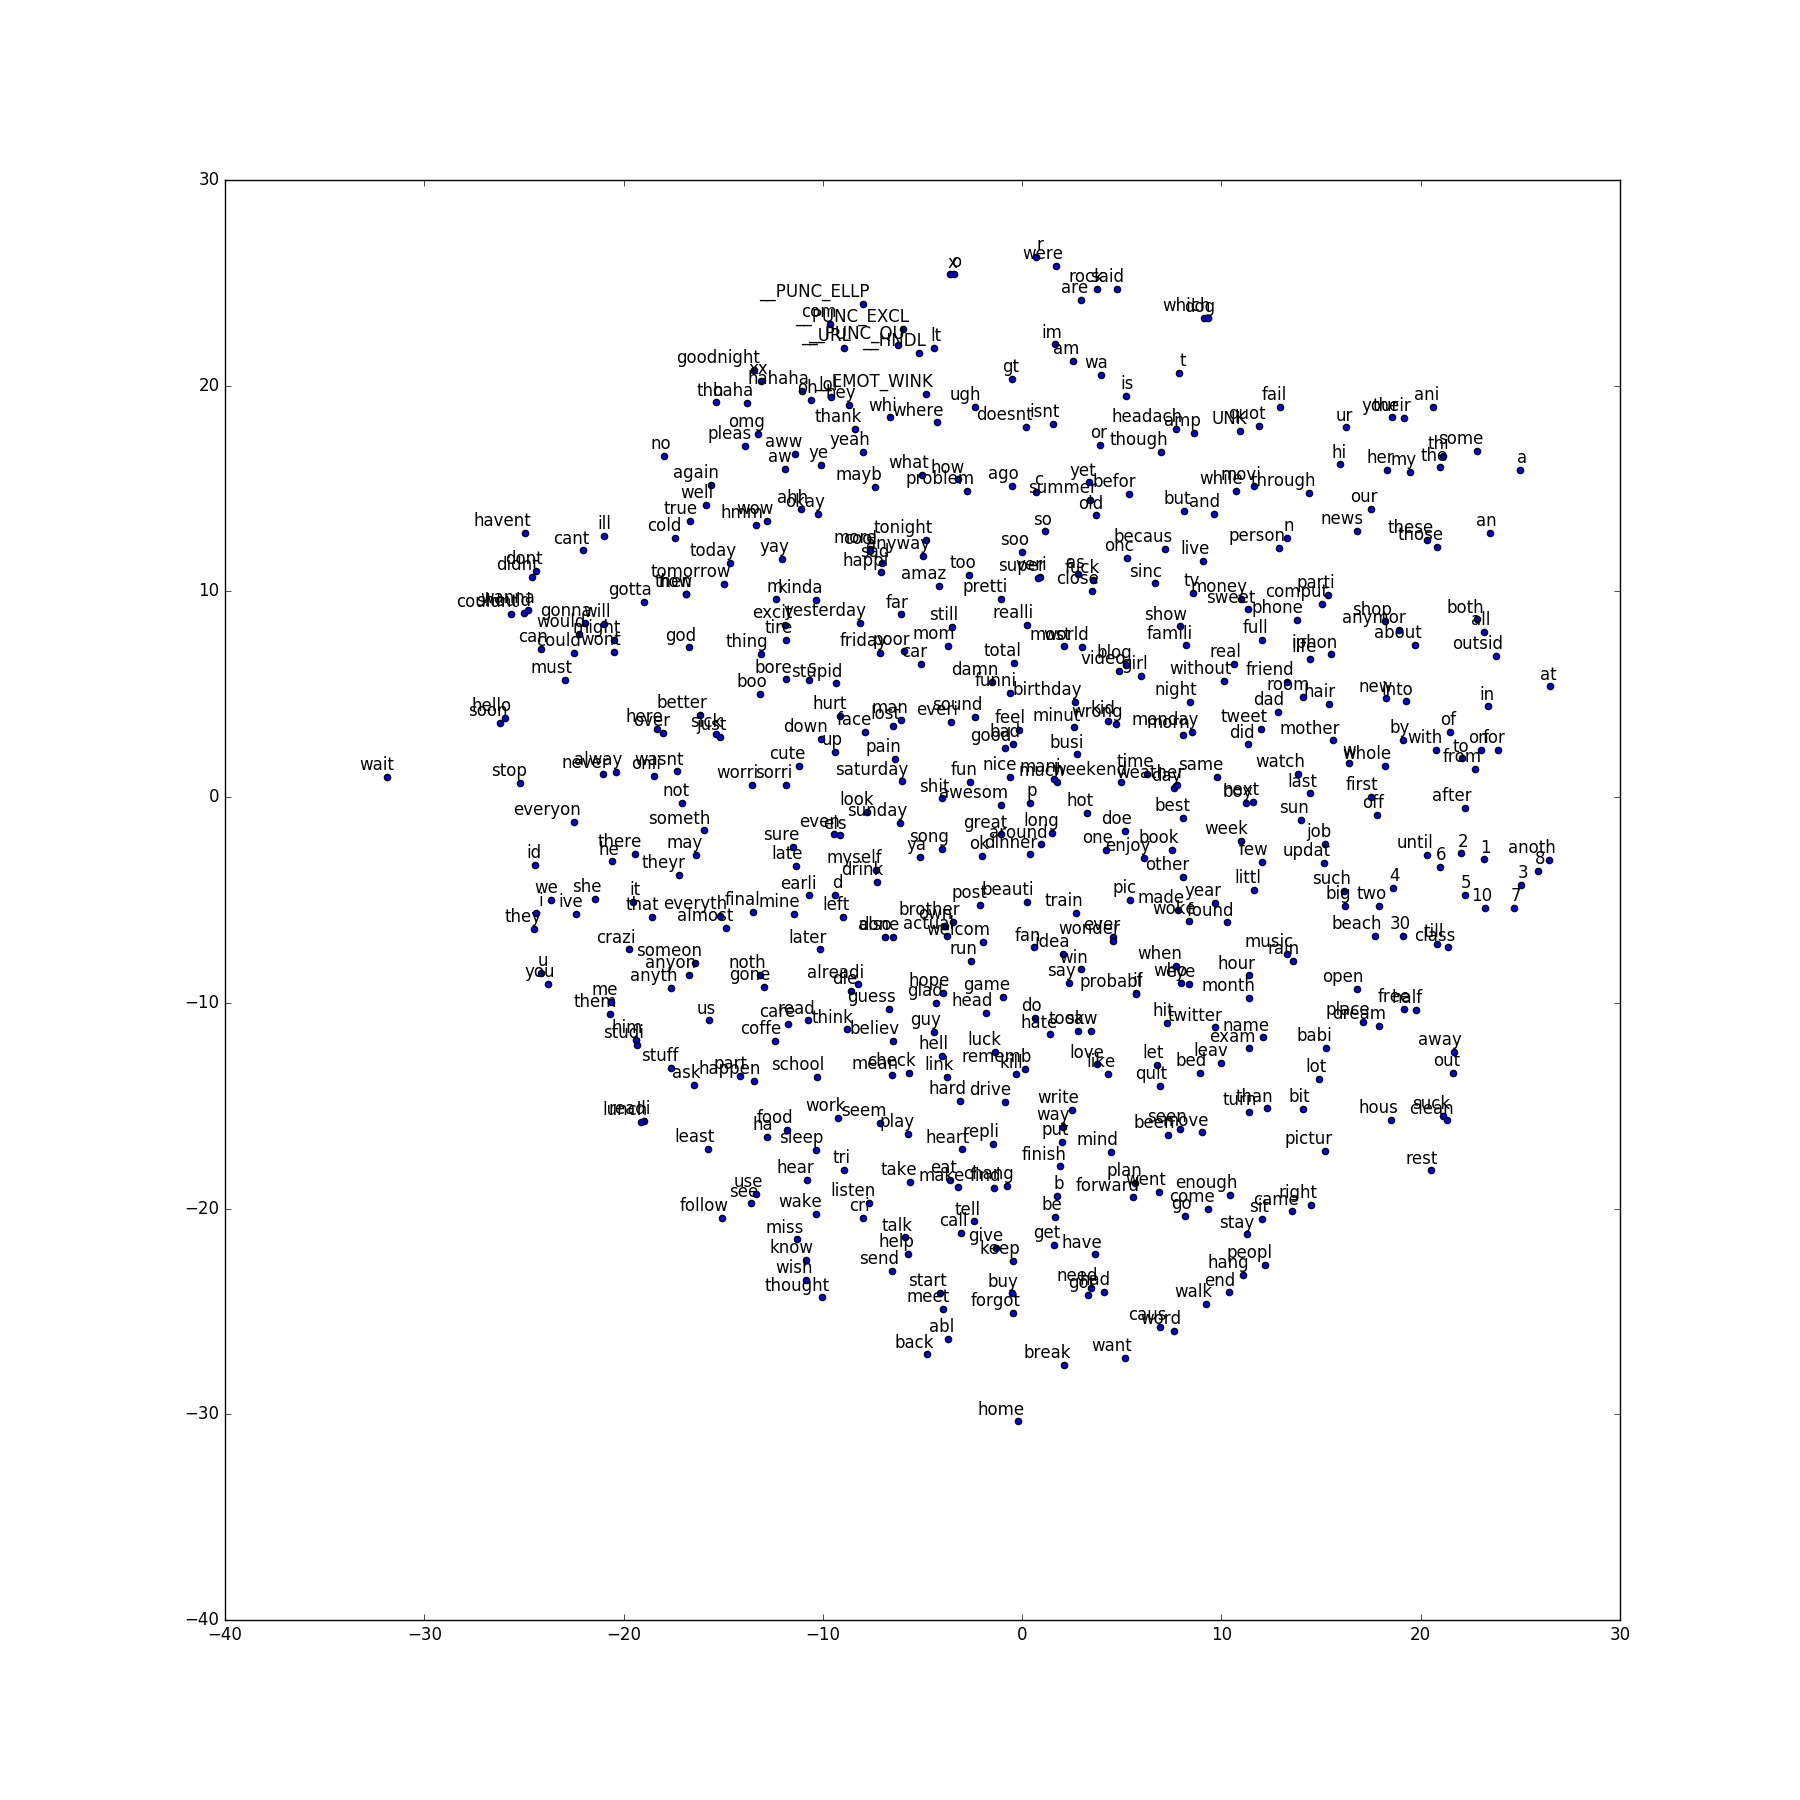
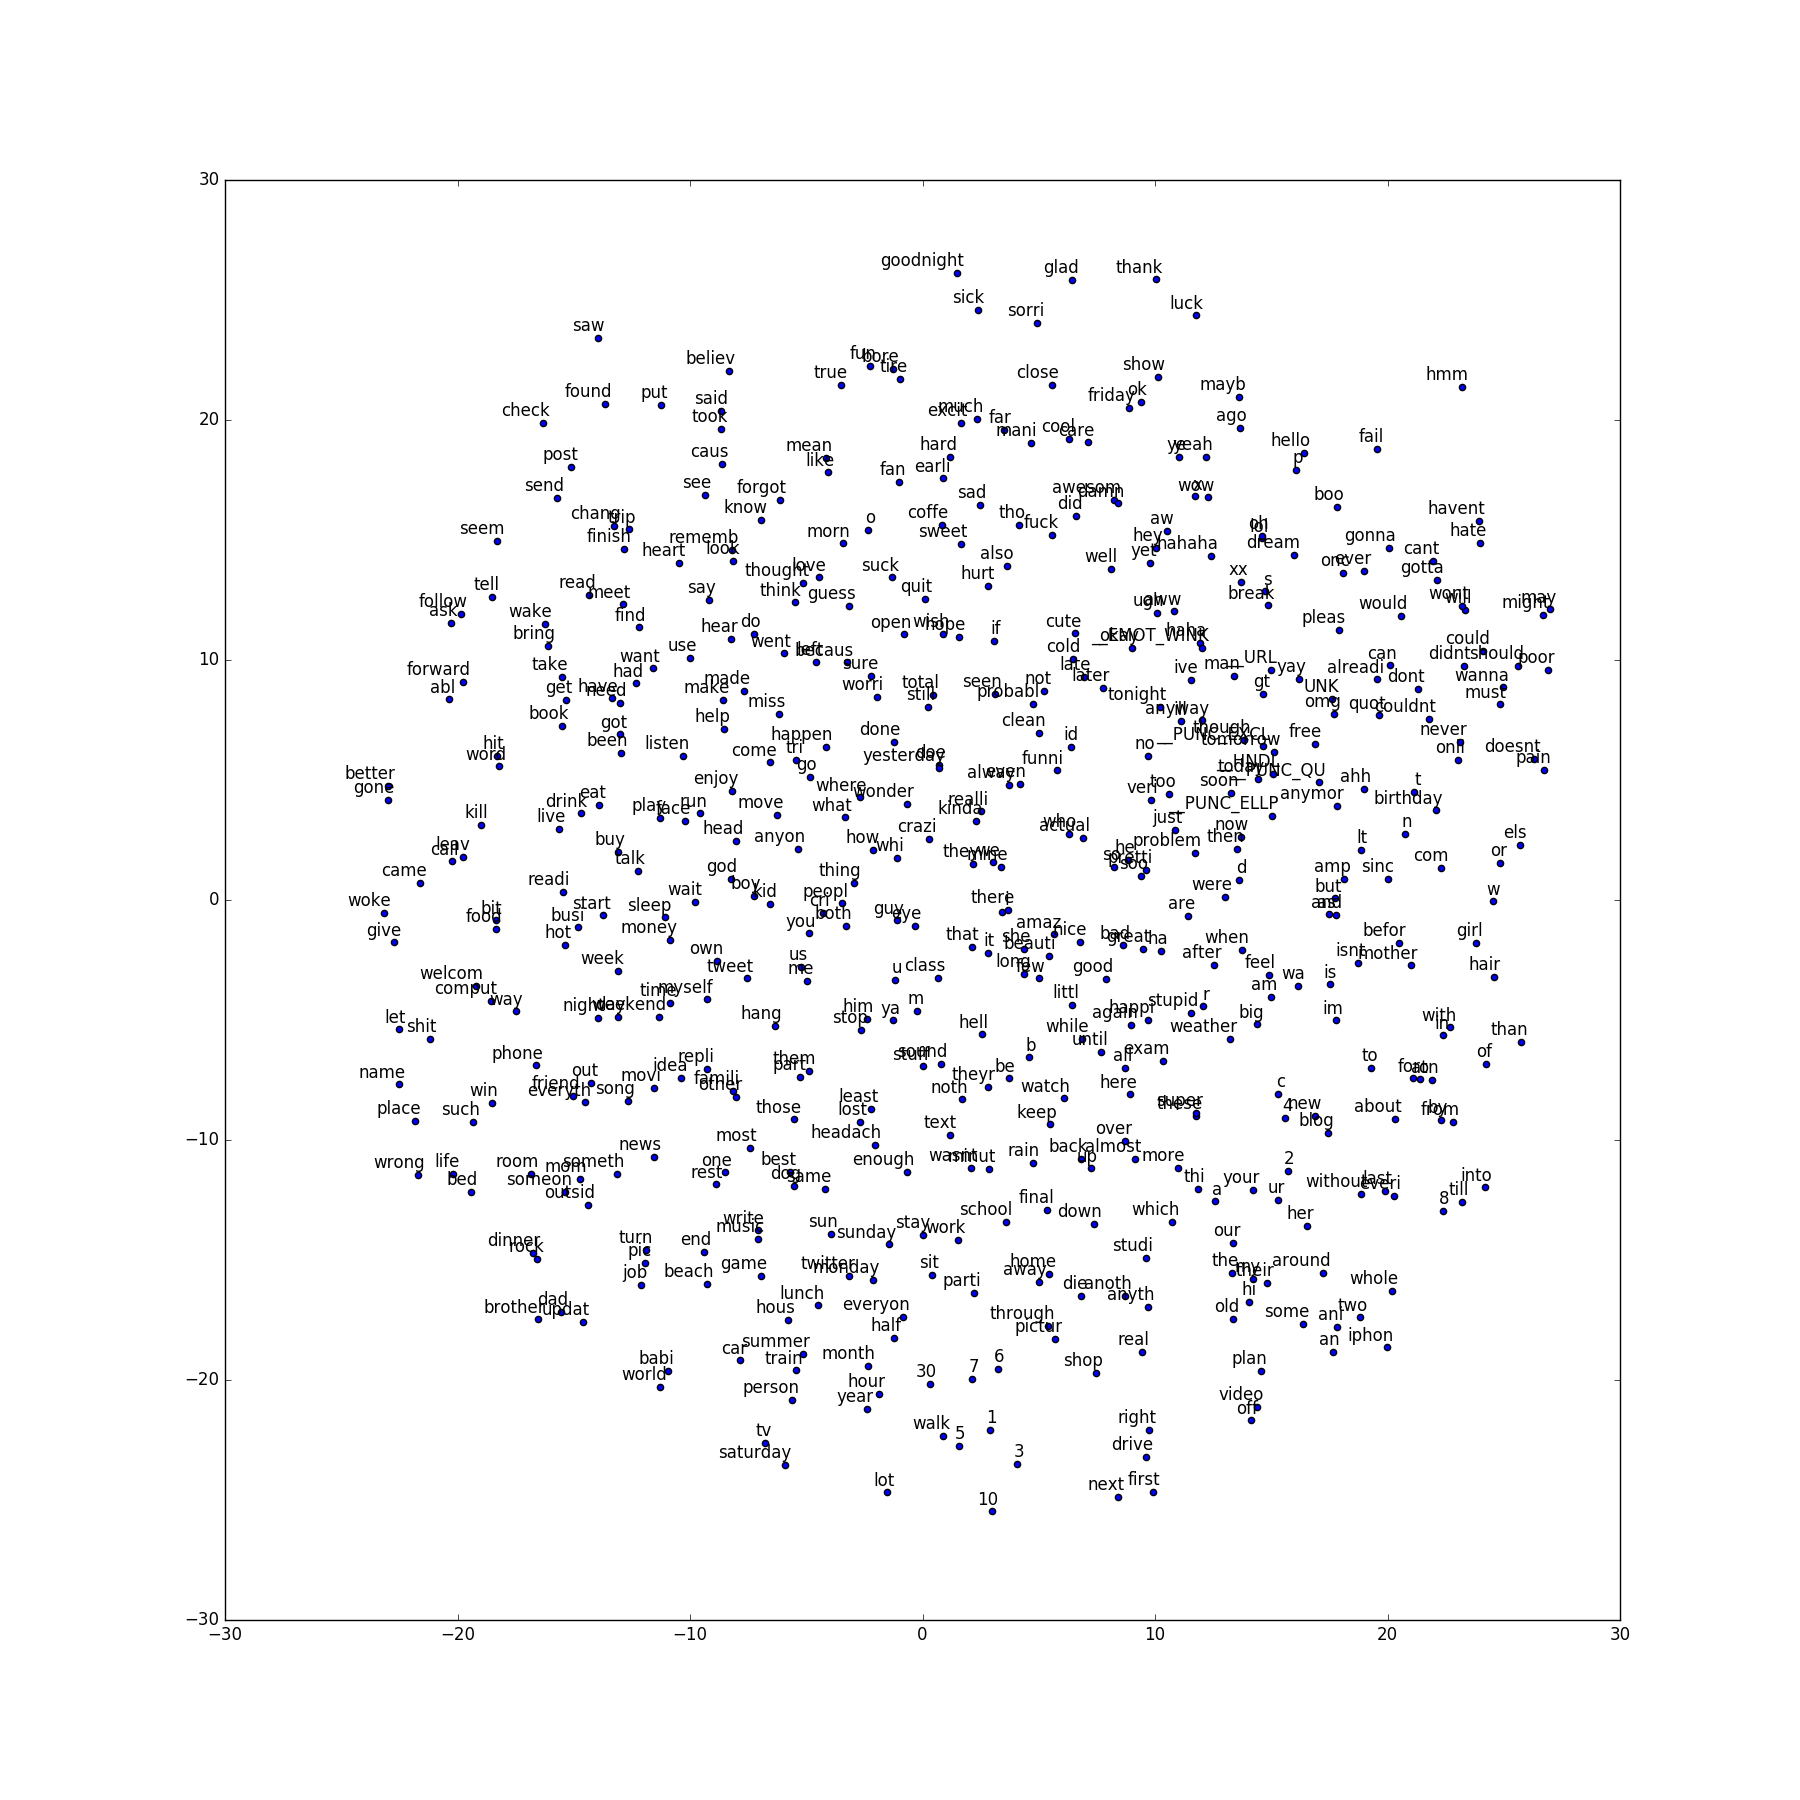
gensim w2v testing

diff --git a/tf_word2vec.py b/tf_word2vec.py
@@ -37,8 +37,6 @@ def read_tweet(filename):
     # print tweets[:10]
     return tweets, tweets_sent
 tweets, tweets_sent = read_tweet('/home/jiangluo/tf_word2vec/word.txt')
-tweets = tweets[:300000]
-tweets_sent = tweets_sent[:300000]
 
 
 def set_words_sentiment(tweets, tweets_sent):
@@ -114,16 +112,16 @@ def generate_batch(batch_size, num_skips, skip_window):
             targets_to_avoid.append(target)
             batch[i * num_skips + j] = buffer[skip_window]
             labels[i * num_skips + j, 0] = buffer[target]
-            labels_sent[i * num_skips + j, 0] = buffer_sent[skip_window]
+            labels_sent[i * num_skips + j, 0] = float(buffer_sent[skip_window])
         buffer.append(data[data_index])
         data_index = (data_index + 1) % len(data)
     return batch, labels, labels_sent
-
+'''
 batch, labels, labels_sent = generate_batch(batch_size=8, num_skips=2, skip_window=1)
 for i in range(8):
     print(batch[i], reverse_dictionary[batch[i]],
           '->', labels[i, 0], reverse_dictionary[labels[i, 0]])
-
+'''
 batch_size = 128
 embedding_size = 128  # Dimension of the embedding vector.
 skip_window = 1       # How many words to consider left and right.
@@ -167,9 +165,10 @@ with graph.as_default():
     sent_logits = tf.matmul(embed, sent_w, transpose_b=True) + sent_b
     sent_loss = tf.reduce_mean(
         tf.nn.sigmoid_cross_entropy_with_logits(sent_logits, sent_labels))
-    loss = 0.5 * loss_w + 0.5 * sent_loss
-    # Construct the SGD optimizer using a learning rate of 0.001.
-    optimizer = tf.train.GradientDescentOptimizer(1.0).minimize(loss)
+    alpha = 0
+    loss = (1 - alpha) * loss_w + alpha * sent_loss
+    # Construct the SGD optimizer using a learning rate of 0.1.
+    optimizer = tf.train.GradientDescentOptimizer(0.1).minimize(loss)
 
     # Compute the cosine similarity between minibatch examples and all embeddings.
     norm = tf.sqrt(tf.reduce_sum(tf.square(embeddings), 1, keep_dims=True))
@@ -182,7 +181,7 @@ with graph.as_default():
     # Add variable initializer.
     init = tf.global_variables_initializer()
 
-num_steps = 60001
+num_steps = 330001
 
 with tf.Session(graph=graph) as session:
     # We must initialize all variables before we use them.
@@ -226,7 +225,7 @@ print data_index
 
 
 def save_vec(embeddings, reverse_dictionary):
-    f = open('vec.txt', 'w')
+    f = open('vec_w.txt', 'w')
     f.write('%s %s\n' % (vocabulary_size, embedding_size))
     for i in range(vocabulary_size):
         word = reverse_dictionary[i]

diff --git a/tf_test.py b/tf_test.py
@@ -12,16 +12,22 @@ with graph.as_default():
                             stddev=1.0))
     sent_b = tf.Variable(tf.zeros([2]))
     sent_logits = tf.matmul(embed, sent_w, transpose_b=True) + sent_b
-    sent_softmax = tf.nn.softmax(sent_logits)
-    max_index = tf.argmax(sent_softmax, axis=1)
-    one_hot_sent = tf.one_hot(max_index, 2, dtype=tf.int32)
+    sig = tf.sigmoid(sent_logits)
+    reduce = tf.reduce_sum(sig)
+    # sent_softmax = tf.nn.softmax(sent_logits)
+    # max_index = tf.argmax(sent_softmax, axis=1)
+    # one_hot_sent = tf.one_hot(max_index, 2, dtype=tf.int32)
 
 with tf.Session(graph=graph) as sess:
     tf.global_variables_initializer().run()
     print embed.get_shape(), sent_w.get_shape()
     print sent_logits.get_shape()
     print sent_logits.eval()
+    print sig.eval()
+    print reduce.eval()
+    '''
     print sent_softmax.get_shape()
     print sent_softmax.eval()
     print max_index.eval()
     print one_hot_sent.eval()
+    '''

diff --git a/gensim_w2v.py b/gensim_w2v.py
@@ -2,8 +2,10 @@ import gensim
 
 
 def model():
-    model = gensim.models.Word2Vec.load_word2vec_format('/home/jiangluo/tf_word2vec/vec.txt', binary=False)
-    print model.similarity('good', 'bad')
+    model_w = gensim.models.Word2Vec.load_word2vec_format('/home/jiangluo/tf_word2vec/vec_w.txt', binary=False)
+    model_s = gensim.models.Word2Vec.load_word2vec_format('/home/jiangluo/tf_word2vec/vec.txt', binary=False)
+    print "only words: ", model_w.similarity('good', 'bad')
+    print "words and sentiment: ", model_s.similarity('good', 'bad')
 
 if __name__ == '__main__':
     model()
